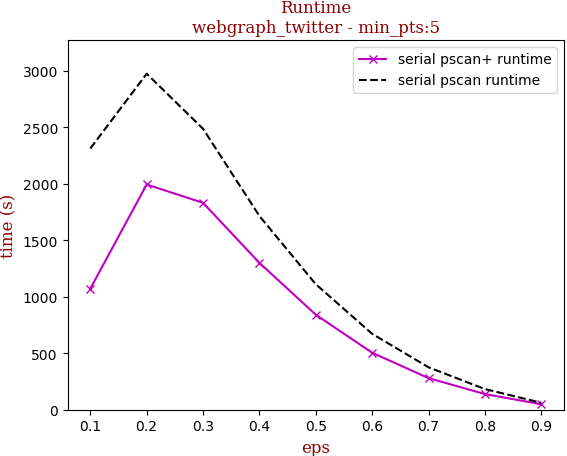
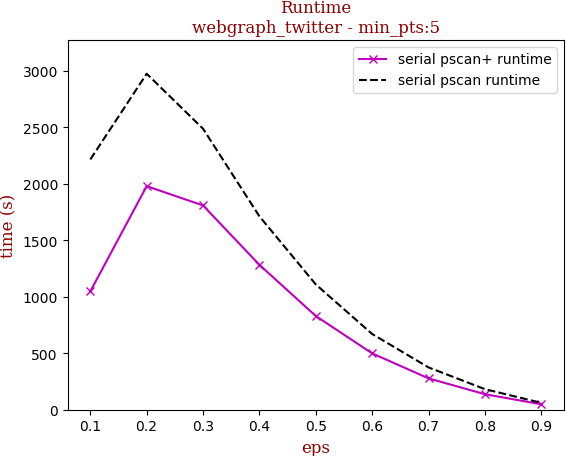
add twitter workload exp for min_pts 2,5,10,15

diff --git a/python_experiments/workload_figure.py b/python_experiments/workload_figure.py
@@ -225,7 +225,8 @@ if __name__ == '__main__':
     data_set_lst = ['small_snap_dblp',
                     'snap_pokec', 'snap_livejournal', 'snap_orkut',
                     'webgraph_uk', 'webgraph_webbase',
-                    # 'webgraph_twitter', 'snap_friendster',
+                    'webgraph_twitter',
+                    #  'snap_friendster',
                     '10million_avgdeg15_maxdeg50_Cdefault']
 
     case_study0()

diff --git a/python_experiments/case_studies/figures-case-study12-workload-efficient-2/ReadMe-10.md b/python_experiments/case_studies/figures-case-study12-workload-efficient-2/ReadMe-10.md
@@ -94,6 +94,22 @@ pscan+ eval number | 0.325 | 0.349 | 0.316 | 0.262 | 0.214 | 0.166 | 0.126 | 0.0
 serial pscan runtime | 176.553 | 88.455 | 62.502 | 48.931 | 40.284 | 33.055 | 28.006 | 22.489 | 18.274
 serial pscan+ runtime | 87.540 | 55.764 | 45.246 | 38.321 | 33.311 | 28.709 | 24.942 | 20.967 | 17.497
 
+## webgraph_twitter
+
+workload | runtime
+--- | ---
+![webgraph_twitter-workload](../../figures/workload-efficient/webgraph_twitter-min_pts:10-workload.png) | ![webgraph_twitter-runtime](../../figures/workload-efficient/webgraph_twitter-min_pts:10-runtime.png)
+
+tag | eps-0.1 | eps-0.2 | eps-0.3 | eps-0.4 | eps-0.5 | eps-0.6 | eps-0.7 | eps-0.8 | eps-0.9
+--- | --- | --- | --- | --- | --- | --- | --- | --- | ---
+prune0 definitely not reachable | 0.251 | 0.395 | 0.506 | 0.599 | 0.679 | 0.754 | 0.821 | 0.885 | 0.944
+prune1 definitely reachable | 0.041 | 0.016 | 0.007 | 0.004 | 0.002 | 0.001 | 0.000 | 0.000 | 0.000
+max eval number | 0.708 | 0.590 | 0.487 | 0.398 | 0.319 | 0.246 | 0.178 | 0.115 | 0.056
+pscan eval number | 0.563 | 0.523 | 0.424 | 0.335 | 0.261 | 0.195 | 0.137 | 0.084 | 0.036
+pscan+ eval number | 0.513 | 0.519 | 0.424 | 0.335 | 0.260 | 0.194 | 0.136 | 0.083 | 0.036
+serial pscan runtime | 2496.162 | 3102.021 | 2505.708 | 1709.792 | 1111.877 | 665.625 | 370.735 | 178.761 | 58.856
+serial pscan+ runtime | 1241.059 | 2102.837 | 1828.919 | 1278.996 | 827.329 | 496.229 | 275.167 | 134.680 | 46.480
+
 ## 10million_avgdeg15_maxdeg50_Cdefault
 
 workload | runtime

diff --git a/python_experiments/case_studies/figures-case-study12-workload-efficient-2/ReadMe-15.md b/python_experiments/case_studies/figures-case-study12-workload-efficient-2/ReadMe-15.md
@@ -94,6 +94,22 @@ pscan+ eval number | 0.403 | 0.392 | 0.334 | 0.267 | 0.211 | 0.159 | 0.117 | 0.0
 serial pscan runtime | 203.836 | 91.456 | 60.776 | 45.936 | 37.262 | 30.218 | 25.514 | 20.725 | 17.475
 serial pscan+ runtime | 97.456 | 57.767 | 44.651 | 37.172 | 31.783 | 26.847 | 23.828 | 19.366 | 16.331
 
+## webgraph_twitter
+
+workload | runtime
+--- | ---
+![webgraph_twitter-workload](../../figures/workload-efficient/webgraph_twitter-min_pts:15-workload.png) | ![webgraph_twitter-runtime](../../figures/workload-efficient/webgraph_twitter-min_pts:15-runtime.png)
+
+tag | eps-0.1 | eps-0.2 | eps-0.3 | eps-0.4 | eps-0.5 | eps-0.6 | eps-0.7 | eps-0.8 | eps-0.9
+--- | --- | --- | --- | --- | --- | --- | --- | --- | ---
+prune0 definitely not reachable | 0.251 | 0.395 | 0.506 | 0.599 | 0.679 | 0.754 | 0.821 | 0.885 | 0.944
+prune1 definitely reachable | 0.041 | 0.016 | 0.007 | 0.004 | 0.002 | 0.001 | 0.000 | 0.000 | 0.000
+max eval number | 0.708 | 0.590 | 0.487 | 0.398 | 0.319 | 0.246 | 0.178 | 0.115 | 0.056
+pscan eval number | 0.571 | 0.507 | 0.406 | 0.319 | 0.246 | 0.183 | 0.128 | 0.078 | 0.033
+pscan+ eval number | 0.534 | 0.507 | 0.407 | 0.319 | 0.245 | 0.182 | 0.127 | 0.077 | 0.033
+serial pscan runtime | 2659.911 | 3169.537 | 2510.802 | 1703.747 | 1101.959 | 660.862 | 367.460 | 177.049 | 57.398
+serial pscan+ runtime | 1354.199 | 2165.519 | 1834.482 | 1277.353 | 823.327 | 495.069 | 273.645 | 132.593 | 45.254
+
 ## 10million_avgdeg15_maxdeg50_Cdefault
 
 workload | runtime

diff --git a/python_experiments/case_studies/figures-case-study12-workload-efficient-2/ReadMe-5.md b/python_experiments/case_studies/figures-case-study12-workload-efficient-2/ReadMe-5.md
@@ -94,6 +94,22 @@ pscan+ eval number | 0.205 | 0.255 | 0.264 | 0.238 | 0.206 | 0.166 | 0.132 | 0.0
 serial pscan runtime | 128.369 | 81.178 | 63.963 | 53.105 | 45.000 | 37.165 | 31.731 | 25.440 | 20.182
 serial pscan+ runtime | 71.023 | 54.264 | 45.400 | 39.985 | 35.479 | 31.071 | 28.483 | 23.492 | 19.536
 
+## webgraph_twitter
+
+workload | runtime
+--- | ---
+![webgraph_twitter-workload](../../figures/workload-efficient/webgraph_twitter-min_pts:5-workload.png) | ![webgraph_twitter-runtime](../../figures/workload-efficient/webgraph_twitter-min_pts:5-runtime.png)
+
+tag | eps-0.1 | eps-0.2 | eps-0.3 | eps-0.4 | eps-0.5 | eps-0.6 | eps-0.7 | eps-0.8 | eps-0.9
+--- | --- | --- | --- | --- | --- | --- | --- | --- | ---
+prune0 definitely not reachable | 0.251 | 0.395 | 0.506 | 0.599 | 0.679 | 0.754 | 0.821 | 0.885 | 0.944
+prune1 definitely reachable | 0.041 | 0.016 | 0.007 | 0.004 | 0.002 | 0.001 | 0.000 | 0.000 | 0.000
+max eval number | 0.708 | 0.590 | 0.487 | 0.398 | 0.319 | 0.246 | 0.178 | 0.115 | 0.056
+pscan eval number | 0.525 | 0.536 | 0.447 | 0.359 | 0.282 | 0.213 | 0.151 | 0.095 | 0.042
+pscan+ eval number | 0.455 | 0.523 | 0.446 | 0.358 | 0.281 | 0.212 | 0.150 | 0.094 | 0.042
+serial pscan runtime | 2215.825 | 2974.592 | 2487.587 | 1712.130 | 1109.480 | 670.555 | 374.653 | 182.246 | 60.777
+serial pscan+ runtime | 1047.878 | 1979.548 | 1808.200 | 1282.951 | 829.559 | 499.056 | 277.530 | 137.458 | 48.154
+
 ## 10million_avgdeg15_maxdeg50_Cdefault
 
 workload | runtime

diff --git a/python_experiments/case_studies/figures-case-study12-workload-efficient-2/ReadMe-2.md b/python_experiments/case_studies/figures-case-study12-workload-efficient-2/ReadMe-2.md
@@ -94,6 +94,22 @@ pscan+ eval number | 0.102 | 0.156 | 0.183 | 0.187 | 0.183 | 0.167 | 0.144 | 0.1
 serial pscan runtime | 91.544 | 73.273 | 63.532 | 55.822 | 49.220 | 42.408 | 36.601 | 29.070 | 22.685
 serial pscan+ runtime | 54.628 | 50.457 | 45.602 | 41.980 | 38.508 | 34.572 | 31.029 | 27.286 | 22.854
 
+## webgraph_twitter
+
+workload | runtime
+--- | ---
+![webgraph_twitter-workload](../../figures/workload-efficient/webgraph_twitter-min_pts:2-workload.png) | ![webgraph_twitter-runtime](../../figures/workload-efficient/webgraph_twitter-min_pts:2-runtime.png)
+
+tag | eps-0.1 | eps-0.2 | eps-0.3 | eps-0.4 | eps-0.5 | eps-0.6 | eps-0.7 | eps-0.8 | eps-0.9
+--- | --- | --- | --- | --- | --- | --- | --- | --- | ---
+prune0 definitely not reachable | 0.251 | 0.395 | 0.506 | 0.599 | 0.679 | 0.754 | 0.821 | 0.885 | 0.944
+prune1 definitely reachable | 0.041 | 0.016 | 0.007 | 0.004 | 0.002 | 0.001 | 0.000 | 0.000 | 0.000
+max eval number | 0.708 | 0.590 | 0.487 | 0.398 | 0.319 | 0.246 | 0.178 | 0.115 | 0.056
+pscan eval number | 0.450 | 0.528 | 0.461 | 0.379 | 0.303 | 0.232 | 0.168 | 0.108 | 0.051
+pscan+ eval number | 0.362 | 0.500 | 0.457 | 0.377 | 0.301 | 0.231 | 0.167 | 0.107 | 0.050
+serial pscan runtime | 1820.739 | 2785.254 | 2435.128 | 1716.330 | 1113.661 | 675.017 | 377.830 | 185.596 | 63.310
+serial pscan+ runtime | 795.956 | 1791.406 | 1769.003 | 1282.867 | 832.651 | 514.151 | 279.539 | 139.022 | 50.273
+
 ## 10million_avgdeg15_maxdeg50_Cdefault
 
 workload | runtime
